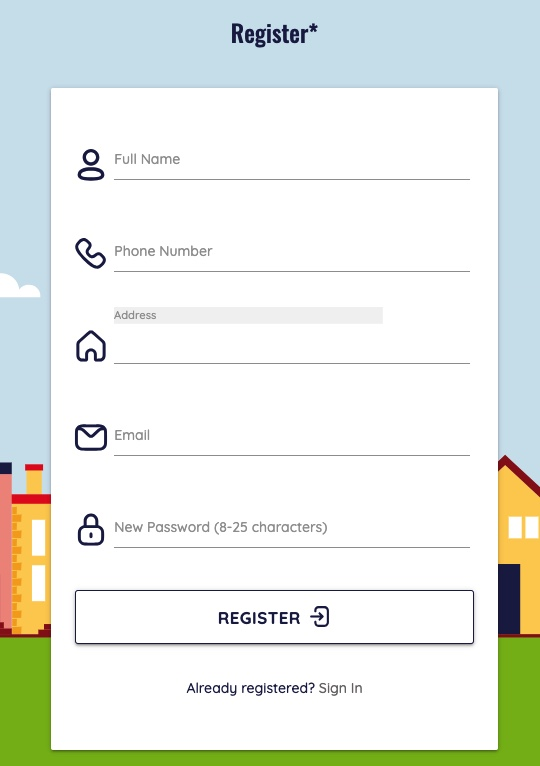
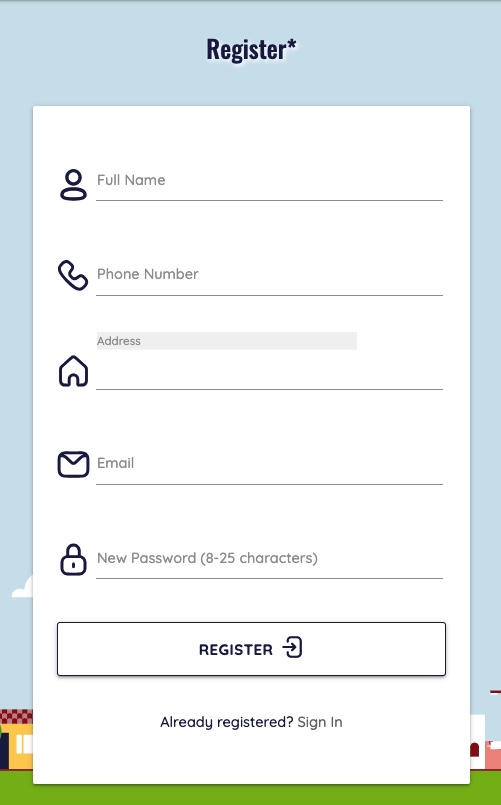
add Landing Page and Registration sections

Changed region(s): [[0.0, 0.03, 1.0, 0.9909], [0.3293, 0.8708, 0.6886, 0.9308]]

diff --git a/commtransport/static/js/general.js b/commtransport/static/js/general.js
@@ -80,8 +80,6 @@ if (deleteButtons) {
 		};
 		
 		deleteBtn.addEventListener('click', handleDelete);
-
-		
 	}
 }
 
@@ -89,18 +87,6 @@ if (deleteButtons) {
 // move background only if it's the home page
 if (window.location.pathname === "/") {
 	document.body.setAttribute('class', 'animate-background');
-}
-else {
-	// if the path is 'all_requests', remove the background image
-	// const pathname = window.location.pathname;
-	// console.log(window.location.pathname)
-	// const subPaths = pathname.split('/');
-	// console.log(subPaths)
-	// const myPath = subPaths[1];
-
-	// if (myPath === 'all_requests') {
-	// 	document.body.style.backgroundImage = 'none';
-	// }
 }
 
 

diff --git a/README.md b/README.md
@@ -128,12 +128,42 @@ https://lucid.app/lucidchart/55d32dd7-0602-401b-8492-4d5bce45d4cb/edit?viewport_
 
 ## Landing Page
 
+![Home Page Desktop](readme-images/home-desktop.jpeg)
+![Home Page Mobile](readme-images/home-mobile.jpeg)
+![Mobile Navbar](readme-images/mobile-navbar.jpeg)
 
+The landing page gives a small intro about the organisation's mission and ways to sign up as a volunteer or as someone seeking help with transport. 
+
+### Features
+
+* I animated the background image and the red car in the front in CSS to give the impression of the car moving forward. 
+* I drew the red car in [Figma](https://www.figma by copying this [free image](https://www.cleanpng.com/png-car-ferrari-f50-honda-civic-clip-art-red-car-clipa-178920/download-png.html) com/). I needed to separate the car body from the wheels in order to animate them separately.
+* The responsible navbar is a [Materialize](https://materializecss.com/) feature.
+* The background picture is downloaded from [freesvg.org](https://freesvg.org/cityscape-cartoon-illustration) 
 
 <hr>
 <br><br>
 
-## Register
+## Registration
+
+People can register for this project by filling in a registration form. However, submitting the form does not give automatic access to the site, an admin is required to approve everyone signing up.
+![Registration Form](readme-images/register-form.jpeg)
+
+### Features
+
+* I used the [Google Maps API](https://developers.google.com/maps)'s Autocomplete service in JavaScript to validate the address input. The user has to choose an address from the suggested list otherwise it gives an error message. I also restricted the available addresses to Egham and its neighbouring areas.
+* I validate the password in JavaScript with a `regular expression`, requiring the user to include certain types of characters. An error message notifies the user if the requirements haven't been met.
+* Basic HTML validation is used for
+    - the length of the name, phone, email and password.
+    - email's format
+
+![Google Autocomplete](readme-images/google-autocomplete.jpeg)
+![Address Validation](readme-images/address-validation.jpeg)
+![Password Validation](readme-images/password-validation.jpeg)
+
+After Successfully submitting the form, the user receives a flash notification:
+
+![Registration Flash Message](readme-images/registration-flash-message.jpeg)
 
 
 <br>
@@ -254,7 +284,7 @@ The site was built with [Python], [PosgreSQL], [JavaScript](https://en.wikipedia
 
 * [Materialize](https://materializecss.com/) - Navbar, Collapsible, Form, Data and Time pickers.
 
-* [Google Maps API]() - Autocompletion, Direction, Geocoding, ClusterMarker and Map.
+* [Google Maps API](https://developers.google.com/maps) - Autocompletion, Direction, Geocoding, ClusterMarker and Map.
 
 * [Google Fonts](https://fonts.google.com/)  - for texts.
 
